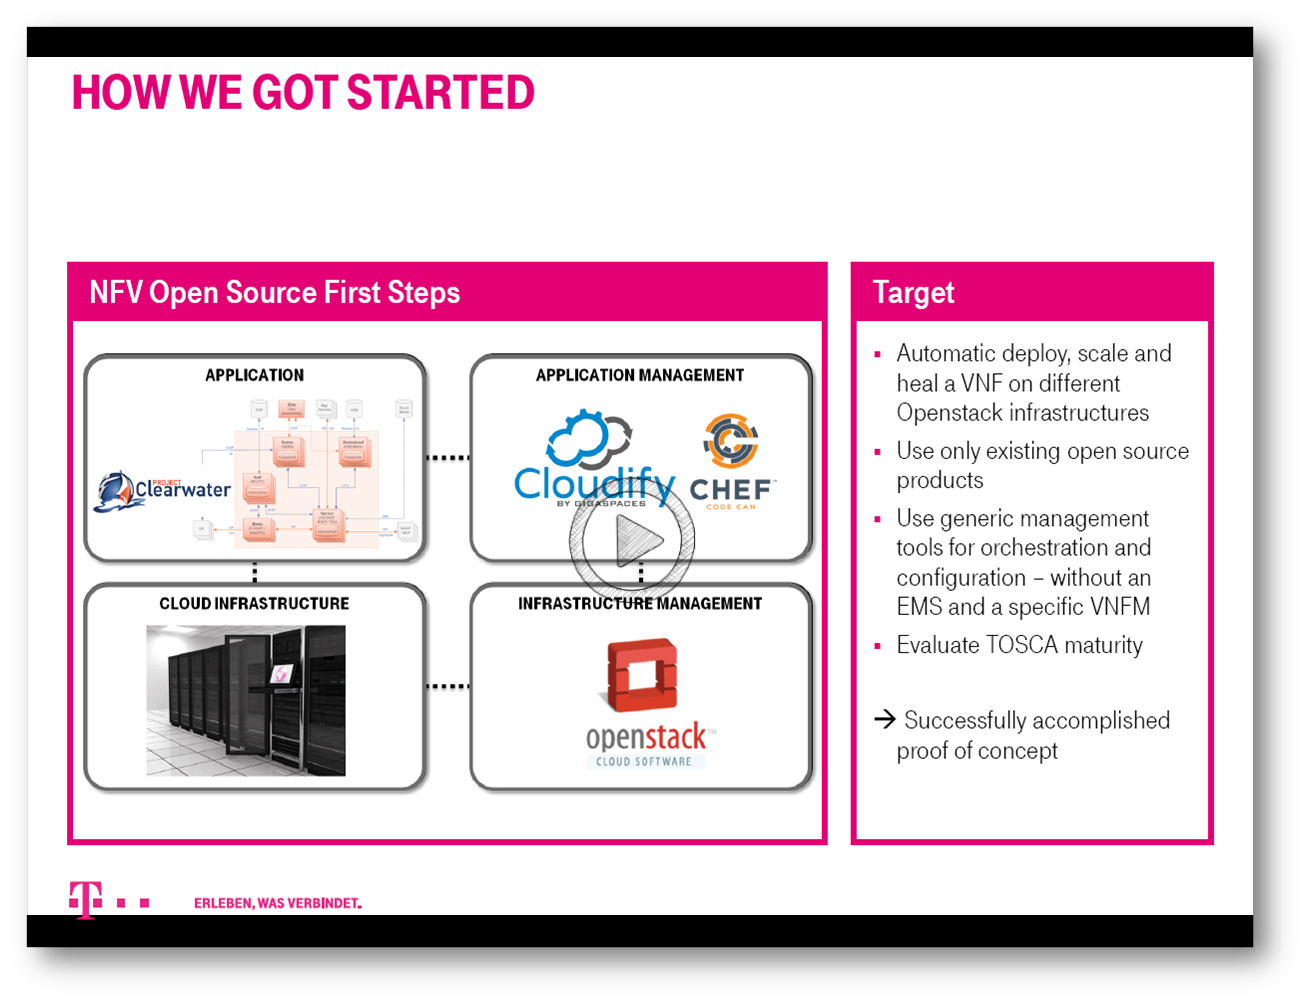
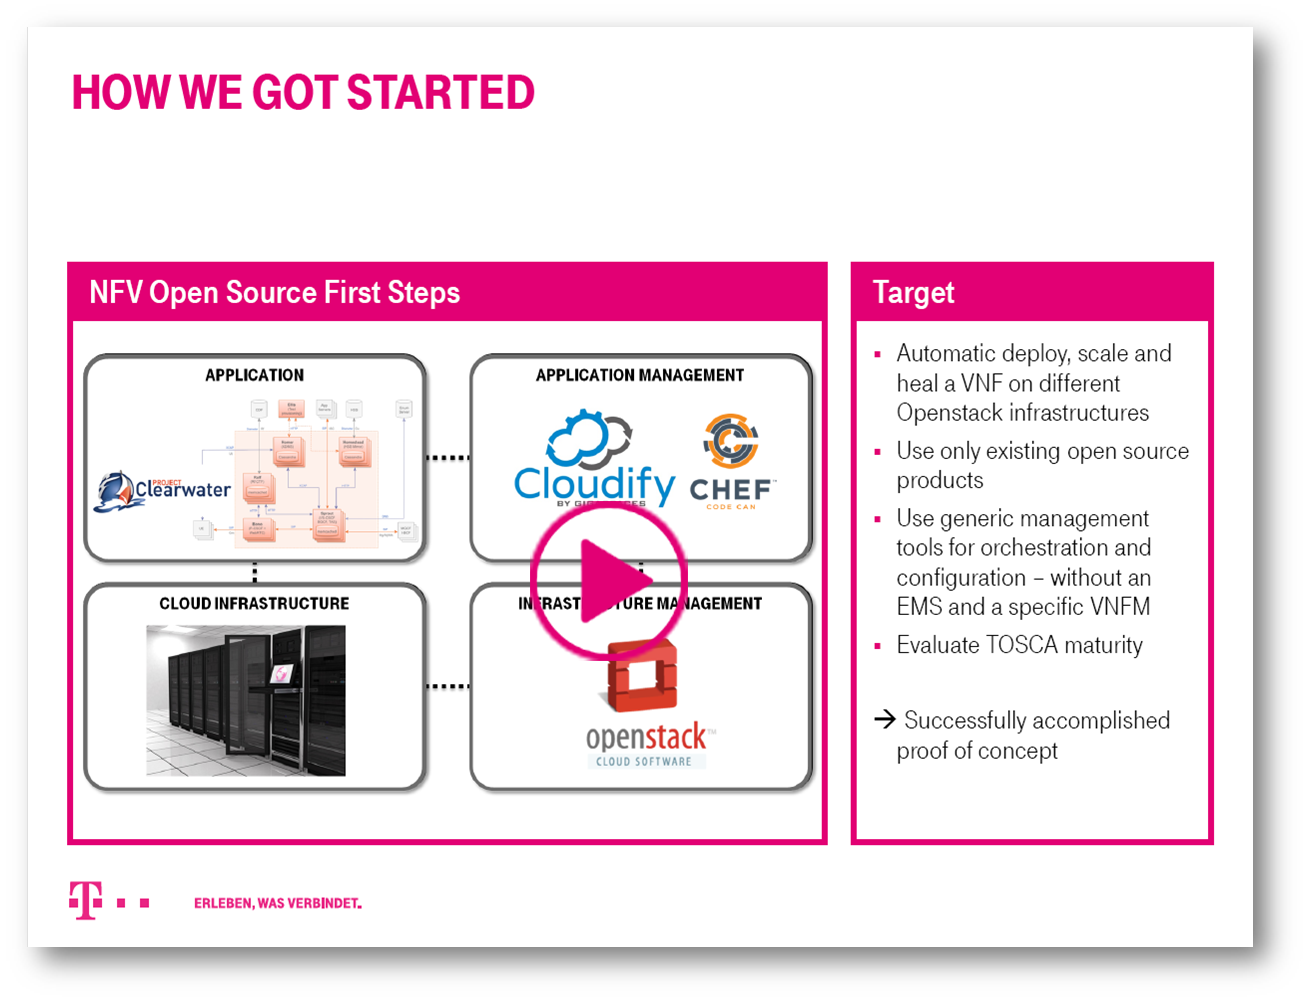
NFV page updates

Changed region(s): [[0.0, 0.8981, 0.9801, 0.96], [0.0, 0.0, 0.9801, 0.0619], [0.3982, 0.4645, 0.5513, 0.6813]]

diff --git a/source/network-function-virtualization-vnf-nfv-orchestration-sdn-platform.html b/source/network-function-virtualization-vnf-nfv-orchestration-sdn-platform.html
@@ -13,28 +13,65 @@ category: NFV
 						<p>NFV, (network function virtualization), is the growing need by Telcos and enterprises to deploy, manage and scale their network functions and services on standardized hardware. Cloudify, provides the full end-to-end lifecycle of NFV orchestration, from installation, provisioning, configuration and deployment through management and monitoring of your application or service in order for the system to take proactive actions, such as healing and scaling based on custom triggers, i.e. Day 0 through Day 2 support, all through a simple TOSCA-based YAML blueprint. </p>
 
 						
-						<br/>
-						<a name="dtag"></a>
+						
 						<hr/>
 													{% include downloadbuttons.html %}
 
 						<hr/>
+
+
+
+
+					<div class="row">
+					<div class="span9">
+						<div class="aligncenter">
+							<div class="well"><img src="/img/NFVLab.png" style="float: right; display: inline; margin-right:10px;" alt="NFV Lab On Deman" width="250px" /><h2> Get Started with the Cloudify <a href="{{ site.baseurl }}/NFV-Labs-On-Demand.html"><strong> NFV Lab</strong></a> Today!</h2></div>
+						</div>
+					</div>
+					</div> 
+					
+								<hr/>
+
+
 					<div class="row">
 				<div class="span9">
-								
+				<!-- <h2><strong>Cloudify participates in and sponsors diverse NFV projects and standards organizations, to help contribute to open source NFV MANO adoption.</strong></h2>
 
-					<div class="flexslider">
-							<ul class="slides">
-								<li>
-								<p>Watch the video from the <strong>SDN OpenFlow World Congress on Deutsche Telekom's</strong> journey to becoming a Software Defined Operator with open source tooling, including Cloudify.</p>
-								<a class="hover-wrap fancybox fancybox.iframe" data-fancybox-group="gallery" title="The Road to Becoming a Software Defined Operator - Alexander Sobania, Deutsche Telekom" href="http://www.youtube.com/embed/DgCku0V_JUs?enablejsapi=1&wmode=opaque">
+				<p>&nbsp;</p>
+				<div id="myGroup">
+					<div class="aligncenter">
+						
+							<a href="#"><img src="/img/TOSCATile.png" data-toggle="collapse" data-target="#tosca" data-parent="#myGroup"></a>
+							<a href="#"><img src="/img/MEFTile.png" data-toggle="collapse" data-target="#mef" data-parent="#myGroup"></a>
+							<a href="#"><img src="/img/ARIATile.png" data-toggle="collapse" data-target="#aria" data-parent="#myGroup"></a>
+							<a href="#"><img src="/img/ETSITile.png" data-toggle="collapse" data-target="#etsi" data-parent="#myGroup" width="150"></a>
+						
+					</div>
+    				<div class="accordion-group">
+						<div class="collapse" id="tosca"><p>test test test testytest </p></div>
+						<div class="collapse" id="mef"><p>MEF MEF MEF</p></div>	
+						<div class="collapse" id="aria"><p>ARIA ARIA </p></div>
+						<div class="collapse" id="etsi"><p>ETSI ETSI ETSI</p></div>
+					</div>
+				</div> -->
+
+
+						<br/>
+						<a name="dtag"></a>
+							
+								</div>
+								</div>
+
+			<div class="row">
+				<div class="span9">
+					
+								<a class="hover-wrap fancybox fancybox.iframe" data-fancybox-group="gallery" title="The Road to Becoming a Software Defined Operator - Alexander Sobania, Deutsche Telekom" href="http://www.youtube.com/embed/DgCku0V_JUs?enablejsapi=1&wmode=opaque"><img src="/img/DTAG2.png" style="float: left; display: inline; margin-right:10px;" alt="Deutsche Telekom SDN & NFV Architecture Using Cloudify Orchestration" width="250px" /></a>
+								<br/>
+								<h3>Watch the video from the <strong>SDN OpenFlow World Congress on Deutsche Telekom's</strong> journey to becoming a Software Defined Operator with open source tooling, including Cloudify.</h3>
 								
-								<div class="aligncenter">
-								<img src="/img/DTAG2.png" alt="Deutsche Telekom SDN & NFV Architecture Using Cloudify Orchestration" width="75%" />
-								</div>	
-								</a>
-								</li>
-							</ul>
+								
+								
+							
 						
 						<a name="nfvorchestration"></a>
 
@@ -104,23 +141,23 @@ category: NFV
 					<div class="span9">
 					<p></p>
 					<div class="well">
-						
+
 					<h3><b>Use Case: Data Plane Acceleration with Enhanced Platform Awareness</b></h3>
+					The successful adoption of NFV highly depends on the ability of a virtualized cloud infrastructure to deliver sufficient performance compared to existing proprietary network appliances. Many network functions today are I/O intensive, sending many packets of data over a short time frame, and the generic hardware prevalent among telcos and carriers is simply not equipped nor configured to handle this kind of load, or deliver the level of performance required.</p>
 
-					<p>The successful adoption of NFV highly depends on the ability of a virtualized cloud infrastructure to deliver sufficient performance compared to existing proprietary network appliances. Many network functions today are I/O intensive, sending many packets of data over a short time frame, and the generic hardware prevalent among telcos and carriers is simply not equipped nor configured to handle this kind of load, or deliver the level of performance required.</p>
-
-					<p>Advanced processor and networking technologies embedded in silicon and in PCIe devices (commonly referred to as Data Plane Acceleration) solve the hardware challenge - but only when coupled with Enhanced Platform Awareness (EPA) and Intelligent workload-aware orchestration, telco and carrier-grade NFV performance are enabled.</p>
 					
-					<p class="aligncenter"><img src="http://getcloudify.org/img/blog/cloudify_epa_dpa.png" width="500px"></p>
+					<a class="hover-wrap fancybox fancybox.iframe" data-fancybox-group="gallery" title="Cloudify Demo of Optimized VNF Performance on OpenStack and VMware Using Intel's EPA Technology" href="http://www.youtube.com/embed/iyhE4Lvmxqc?enablejsapi=1&wmode=opaque"><img src="/img/blog/cloudify_epa_dpa-play.png" style="float: left; display: inline; margin-right:10px;" width="500px"></a><p><p>Advanced processor and networking technologies embedded in silicon and in PCIe devices (commonly referred to as Data Plane Acceleration) solve the hardware challenge - but only when coupled with Enhanced Platform Awareness (EPA) and Intelligent workload-aware orchestration, telco and carrier-grade NFV performance are enabled.</p>
+					
+					<p class="aligncenter"></p>
 
 					<p>The ability of an intelligent orchestrator to perform both smart placement and configuration to be able to best leverage these capabilities, all while ensuring high availability and low latency is critical to the performance and reliability of large-scale NFV systems these days.</p>
 					
 					<p>Doing so on a multi-VIM environment, supporting both OpenStack and VMware stacks, enables carriers to run their mission and performance critical workloads in cloud environments without compromising performance, all the while getting simple, easy to use, service orchestration, leveraging cloud management best practices and a truly open architecture.</p>
 
-					<p>See the below video demonstration as well:</p>
-					<p class="aligncenter"><iframe width="500" height="300" src="https://www.youtube.com/embed/iyhE4Lvmxqc" frameborder="0" allowfullscreen></iframe></p>					
+					<p><strong>Watch the demo to learn more.</strong></p>
 				
 					</div>
+
 
 				</div>
 				</div>
@@ -141,13 +178,13 @@ category: NFV
 			<h2><b>Cloudify & ETSI's MANO</b></h2>
 			<p>ETSI, the European Telecommunications Standards Institute, defined a standard reference architecture to achieve NFV, where an integral part of this architecture is the MANO - the NFV management and orchestration layer.</p>  
 			<br/>
-			<img style="float: left; display: inline" src="{{ site.baseurl }}/img/ETSIdiagram.png" width="550" align="left" alt="NFV | ETSI | MANO"/> 
+			<img style="float: left; display: inline; margin-right:10px;" src="{{ site.baseurl }}/img/ETSIdiagram-CL.png" width="500" align="left" alt="NFV | ETSI | MANO"/> 
 			<p><strong>MANO based on TOSCA</strong></p>
 			<p>MANO is the layer defined by ETSI that manages and orchestrates the cloud infrastructure and resources, and it is comprised of the following elements:</p>
 			<ul>
 			<li>The VIM (Virtual Infrastructure Manager), essentially controls the interaction of the VNF with the compute, networking and storage resources of the chosen NFVI (i.e. cloud or virtualization layer).</li>
-			<li>The VNFM (Virtual Network Function Manager), is responsible for the VNF lifecycle management -  e.g. it takes action on instantiation, termination, failover, scaling in and out, and more.</li>
-			<li>The NFV Orchestrator (which is where Cloudify comes in), as its name implies, basically serves the purposes of orchestrating and managing the software and infrastructure resources of the VIM, and realizing the NFVI’s network services.</li>
+			<li>The <strong>VNFM (Virtual Network Function Manager)</strong>, is responsible for the VNF lifecycle management -  e.g. it takes action on instantiation, termination, failover, scaling in and out, and more. Cloudify serves as a generic VNF manager (G-VNFM) and enables full automation of all lifecycle stages for any network function. See this video example of <a href="/cloudifysourceTV.html#9">vIMS management</a>.</li>
+			<li>The <strong>NFVO (NFV Orchestrator)</strong>, as its name implies, basically serves the purposes of orchestrating and managing end to end network services, through the complex NFV architecture, including integration with SDN controllers, OSS/BSS systems, and more. Cloudify provides a fully open NFVO, learn more about <a href="/2015/03/22/mobile-world-congress-nfv-sdn-network-orchestration-automation.html">NFV & SDN</a>, and more.</li>
 			</ul>
 			<br/>
 			<p>ETSI's MANO is intended to provide the full end-to-end lifecycle of NFV orchestration and management – from installation and deployment through post-deployment, or in the telco industry terminology - Day 0 through Day 2 support.
@@ -163,21 +200,7 @@ category: NFV
 
 
 
-
-
-				<section id="content">
-		 			<div class="container">
-					<div class="row">
-					<div class="span9">
-						<div class="aligncenter">
-							<div class="well"><h2> Register for the Cloudify <a href="{{ site.baseurl }}/NFV-Labs-On-Demand.html"><strong> NFV Lab</strong></a> Today!</h2></div>
-						</div>
-					</div>
-					</div>
-					</div>
-				</section>
-								<hr/>
-
+				
 						<h2><strong>Getting Started</strong></h2>
 						<br/>
 						<ul>

diff --git a/source/downloads/TelcoEdition.html b/source/downloads/TelcoEdition.html
@@ -12,7 +12,7 @@ category: NFV
 					<div class="aligncenter">
 					<p>&nbsp;</p>
 						<div class="well">
-						<h1><strong>Register now for early notification for Cloudify new Telecom edition!</strong> </h1>
+						<h1><strong>Get Ready for the New Cloudify Telecom Edition!</strong> </h1>
 						</div>
 					</div>
 				</div>
